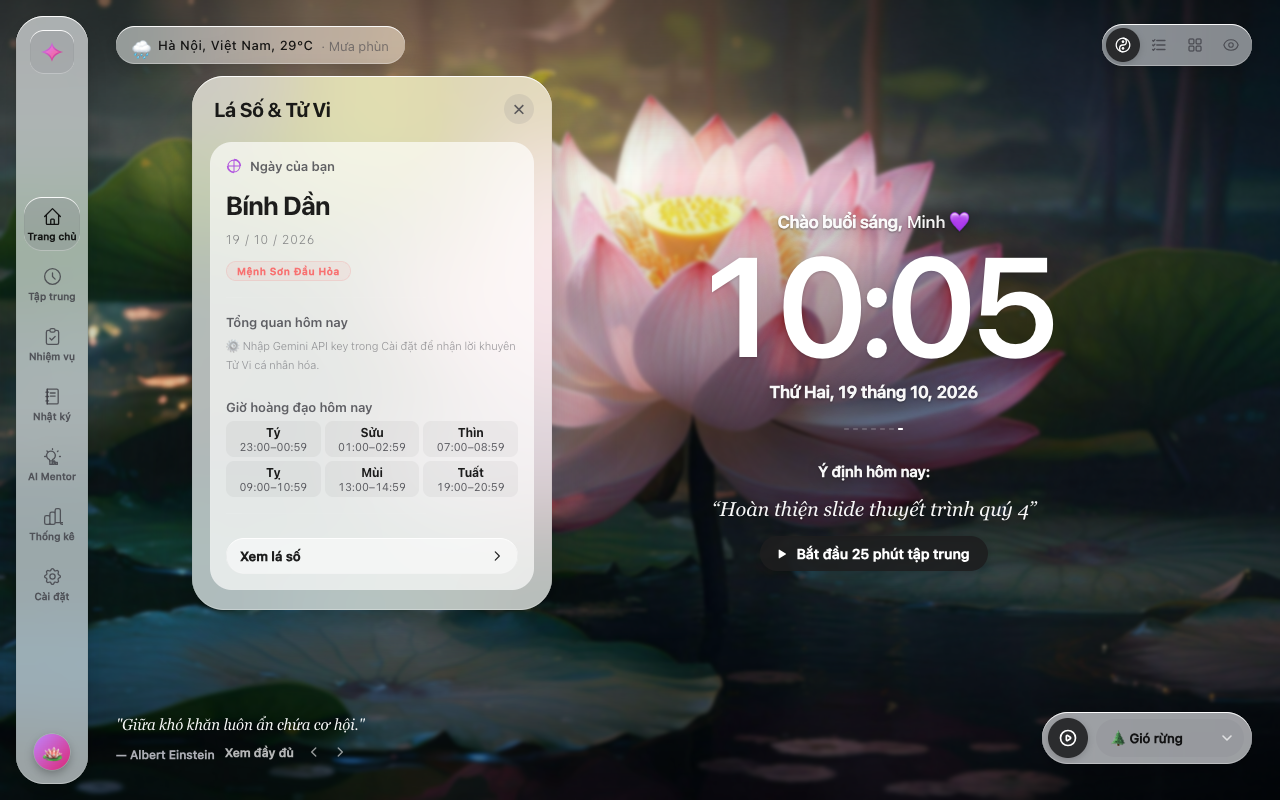
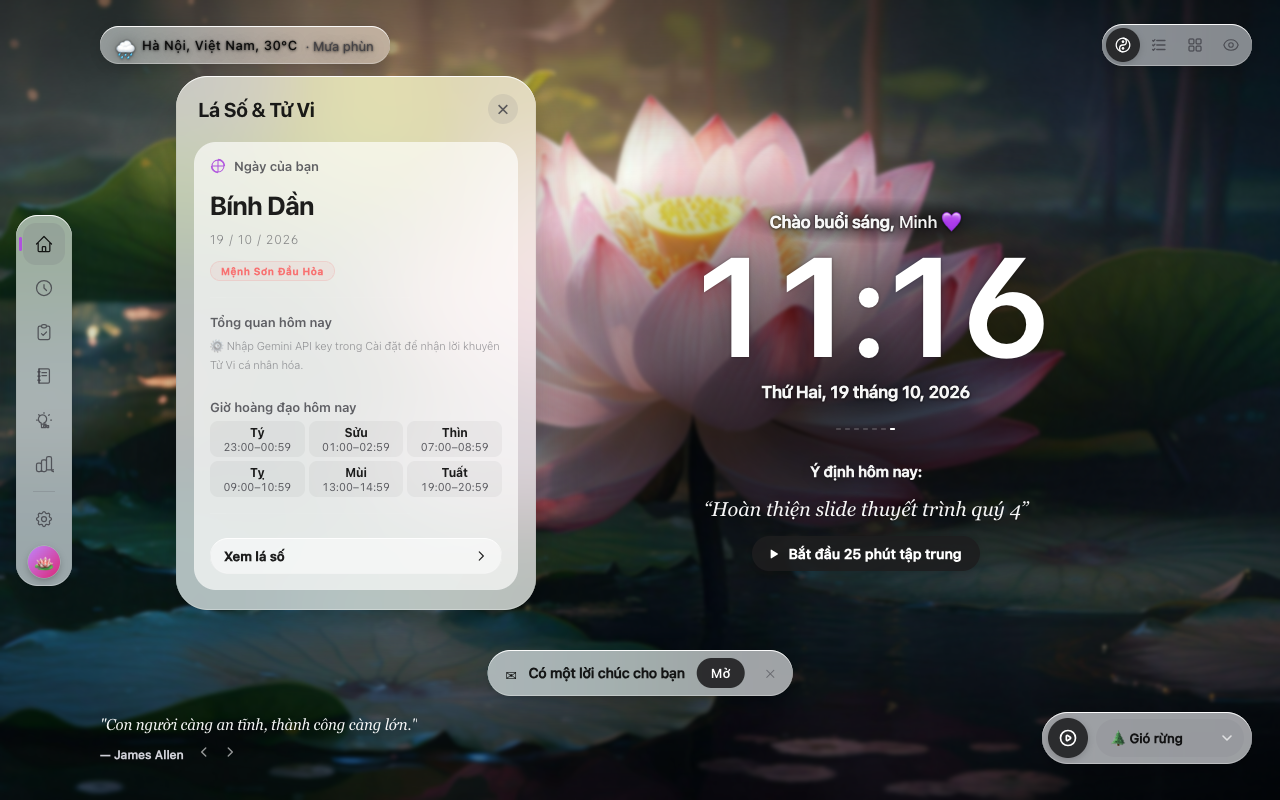
Sidebar: a small floating dock instead of a full-height rail
- The rail was as tall as the window with a logo at the top and the
  avatar at the bottom, mostly empty glass. It is now a dock as tall as
  its icons, centred on the left edge, 56px wide.
- Icon-only buttons; the label becomes the accessible name and a tooltip
  that appears beside the dock after a short pause.
- The active page gets a short accent mark at the dock's inner edge.
- The lotus logo goes (the avatar already carries it); a hairline
  separates Settings and the avatar from the pages.
- Store screenshots retaken.

diff --git a/index.html b/index.html
@@ -15,74 +15,56 @@
   <div class="app-layout" data-view="home">
     <!-- Left Navigation Sidebar -->
     <aside class="sidebar-left">
-      <div class="sidebar-top">
-        <div class="logo-container">
-          <svg viewBox="0 0 100 100" class="logo-lotus" xmlns="http://www.w3.org/2000/svg">
-            <path d="M50 15 C45 35, 30 45, 10 50 C30 55, 45 65, 50 85 C55 65, 70 55, 90 50 C70 45, 55 35, 50 15 Z" fill="url(#lotus-grad)"/>
-            <path d="M50 25 C47 40, 37 47, 20 50 C37 53, 47 60, 50 75 C53 60, 63 53, 80 50 C63 47, 53 40, 50 25 Z" fill="url(#lotus-grad-inner)" opacity="0.8"/>
-            <defs>
-              <linearGradient id="lotus-grad" x1="0%" y1="0%" x2="100%" y2="100%">
-                <stop offset="0%" stop-color="#c084fc" />
-                <stop offset="100%" stop-color="#db2777" />
-              </linearGradient>
-              <linearGradient id="lotus-grad-inner" x1="0%" y1="0%" x2="100%" y2="100%">
-                <stop offset="0%" stop-color="#e879f9" />
-                <stop offset="100%" stop-color="#fb7185" />
-              </linearGradient>
-            </defs>
-          </svg>
-        </div>
-      </div>
-      
       <nav class="sidebar-nav">
-        <button class="nav-item active" data-tab="home" title="Trang chủ">
+        <button class="nav-item active" data-tab="home" aria-label="Trang chủ">
           <svg xmlns="http://www.w3.org/2000/svg" fill="none" viewBox="0 0 24 24" stroke="currentColor">
             <path stroke-linecap="round" stroke-linejoin="round" stroke-width="1.5" d="M3 12l2-2m0 0l7-7 7 7M5 10v10a1 1 0 001 1h3m10-11l2 2m-2-2v10a1 1 0 01-1 1h-3m-6 0a1 1 0 001-1v-4a1 1 0 011-1h2a1 1 0 011 1v4a1 1 0 001 1m-6 0h6"/>
           </svg>
-          <span>Trang chủ</span>
+          <span class="nav-tip">Trang chủ</span>
         </button>
-        <button class="nav-item" data-tab="focus" title="Tập trung">
+        <button class="nav-item" data-tab="focus" aria-label="Tập trung">
           <svg xmlns="http://www.w3.org/2000/svg" fill="none" viewBox="0 0 24 24" stroke="currentColor">
             <path stroke-linecap="round" stroke-linejoin="round" stroke-width="1.5" d="M12 8v4l3 3m6-3a9 9 0 11-18 0 9 9 0 0118 0z"/>
           </svg>
-          <span>Tập trung</span>
+          <span class="nav-tip">Tập trung</span>
         </button>
-        <button class="nav-item" data-tab="tasks" title="Nhiệm vụ">
+        <button class="nav-item" data-tab="tasks" aria-label="Nhiệm vụ">
           <svg xmlns="http://www.w3.org/2000/svg" fill="none" viewBox="0 0 24 24" stroke="currentColor">
             <path stroke-linecap="round" stroke-linejoin="round" stroke-width="1.5" d="M9 5H7a2 2 0 00-2 2v12a2 2 0 002 2h10a2 2 0 002-2V7a2 2 0 00-2-2h-2M9 5a2 2 0 002 2h2a2 2 0 002-2M9 5a2 2 0 012-2h2a2 2 0 012 2m-6 9l2 2 4-4"/>
           </svg>
-          <span>Nhiệm vụ</span>
+          <span class="nav-tip">Nhiệm vụ</span>
         </button>
-        <button class="nav-item" data-tab="journal" title="Nhật ký">
+        <button class="nav-item" data-tab="journal" aria-label="Nhật ký">
           <svg xmlns="http://www.w3.org/2000/svg" fill="none" viewBox="0 0 24 24" stroke="currentColor" stroke-width="1.5" stroke-linecap="round" stroke-linejoin="round">
             <path d="M6 3.5h11a1.5 1.5 0 0 1 1.5 1.5v14a1.5 1.5 0 0 1-1.5 1.5H6z"/><path d="M6 3.5v17M9.5 8h5.5M9.5 11.5h5.5"/><path d="M4.5 7h3M4.5 12h3M4.5 17h3"/>
           </svg>
-          <span>Nhật ký</span>
+          <span class="nav-tip">Nhật ký</span>
         </button>
-        <button class="nav-item" data-tab="ai" title="AI Mentor">
+        <button class="nav-item" data-tab="ai" aria-label="AI Mentor">
           <svg xmlns="http://www.w3.org/2000/svg" fill="none" viewBox="0 0 24 24" stroke="currentColor">
             <path stroke-linecap="round" stroke-linejoin="round" stroke-width="1.5" d="M9.663 17h4.673M12 3v1m6.364 1.636l-.707.707M21 12h-1M4 12H3m3.343-5.657l-.707-.707m2.828 9.9a5 5 0 113.536 0V21h2v-2.243a4.973 4.973 0 013.536 0V21h-2v-2a1 1 0 00-1-1h-2a1 1 0 00-1 1v2H9v-2.243z"/>
           </svg>
-          <span>AI Mentor</span>
+          <span class="nav-tip">AI Mentor</span>
         </button>
-        <button class="nav-item" data-tab="stats" title="Thống kê">
+        <button class="nav-item" data-tab="stats" aria-label="Thống kê">
           <svg xmlns="http://www.w3.org/2000/svg" fill="none" viewBox="0 0 24 24" stroke="currentColor">
             <path stroke-linecap="round" stroke-linejoin="round" stroke-width="1.5" d="M9 19v-6a2 2 0 00-2-2H5a2 2 0 00-2 2v6a2 2 0 002 2h2a2 2 0 002-2zm0 0V9a2 2 0 012-2h2a2 2 0 012 2v10m-6 0a2 2 0 002 2h2a2 2 0 002-2m0 0V5a2 2 0 012-2h2a2 2 0 012 2v14a2 2 0 002 2h2a2 2 0 002-2z"/>
           </svg>
-          <span>Thống kê</span>
+          <span class="nav-tip">Thống kê</span>
         </button>
-        <button class="nav-item" id="settingsBtn" title="Cài đặt">
+        <span class="nav-divider" aria-hidden="true"></span>
+        <button class="nav-item" id="settingsBtn" aria-label="Cài đặt">
           <svg xmlns="http://www.w3.org/2000/svg" fill="none" viewBox="0 0 24 24" stroke="currentColor">
             <path stroke-linecap="round" stroke-linejoin="round" stroke-width="1.5" d="M10.325 4.317c.426-1.756 2.924-1.756 3.35 0a1.724 1.724 0 002.573 1.066c1.543-.94 3.31.826 2.37 2.37a1.724 1.724 0 001.065 2.572c1.756.426 1.756 2.924 0 3.35a1.724 1.724 0 00-1.066 2.573c.94 1.543-.826 3.31-2.37 2.37a1.724 1.724 0 00-2.572 1.065c-.426 1.756-2.924 1.756-3.35 0a1.724 1.724 0 00-2.573-1.066c-1.543.94-3.31-.826-2.37-2.37a1.724 1.724 0 00-1.065-2.572c-1.756-.426-1.756-2.924 0-3.35a1.724 1.724 0 001.066-2.573c-.94-1.543.826-3.31 2.37-2.37.996.608 2.296.07 2.572-1.065z"/>
             <path stroke-linecap="round" stroke-linejoin="round" stroke-width="1.5" d="M15 12a3 3 0 11-6 0 3 3 0 016 0z"/>
           </svg>
-          <span>Cài đặt</span>
+          <span class="nav-tip">Cài đặt</span>
         </button>
       </nav>
 
       <div class="sidebar-bottom">
         <div class="profile-container">
-          <img src="icons/icon128.png" alt="Avatar" class="user-avatar" id="userAvatar" title="Cài đặt">
+          <img src="icons/icon128.png" alt="Ảnh đại diện · mở Cài đặt" class="user-avatar" id="userAvatar">
         </div>
       </div>
     </aside>

diff --git a/liquid-glass.css b/liquid-glass.css
@@ -129,14 +129,19 @@ button { -webkit-tap-highlight-color: transparent; }
   outline-offset: 2px;
 }
 
-/* ---------- Sidebar → floating glass rail ---------- */
+/* ---------- Sidebar → a small floating dock ----------
+   As tall as its icons and centred, not a full-height rail. Labels become tooltips;
+   the active page gets a short accent mark on the left edge. */
 .sidebar-left {
-  width: 72px;
-  height: calc(100% - 32px);
-  margin: 16px 0 16px 16px;
-  padding: 14px 0;
+  align-self: center;
+  justify-content: flex-start;
+  gap: 4px;
+  width: 56px;
+  height: auto;
+  margin: 0 0 0 16px;
+  padding: 8px 0;
   border: none;
-  border-radius: 28px;
+  border-radius: 22px;
   background: var(--sheet-1);
   backdrop-filter: var(--lg-blur-heavy);
   -webkit-backdrop-filter: var(--lg-blur-heavy);
@@ -144,54 +149,78 @@ button { -webkit-tap-highlight-color: transparent; }
   transition: transform 0.5s var(--ease-spring), opacity 0.4s ease, margin 0.5s var(--ease-spring), width 0.5s var(--ease-spring);
 }
 
-.logo-container {
-  width: 44px;
-  height: 44px;
-  border: none;
-  border-radius: 14px;
-  background: var(--wash-2);
-  box-shadow: var(--lg-edge);
-}
-.logo-lotus { width: 28px; height: 28px; filter: none; }
-
-.sidebar-nav { gap: 6px; }
+.sidebar-nav { gap: 2px; }
 
 .nav-item {
-  width: 56px;
-  height: 54px;
+  width: 42px;
+  height: 42px;
   border: none;
-  border-radius: 18px;
-  gap: 3px;
+  border-radius: 13px;
   color: var(--text-dim);
-  transition: background 0.3s var(--ease-spring), color 0.2s ease, transform 0.35s var(--ease-bounce);
+  transition: background 0.25s var(--ease-spring), color 0.2s ease, transform 0.35s var(--ease-bounce);
 }
-.nav-item svg { width: 21px; height: 21px; transition: none; }
-.nav-item span {
-  position: static;
-  opacity: 1;
-  margin: 0;
-  font-size: 10px;
-  font-weight: 510;
-  letter-spacing: 0;
-  text-transform: none;
-  white-space: nowrap;
-}
+.nav-item svg { width: 20px; height: 20px; transition: none; }
 .nav-item:hover { background: var(--wash-1); color: var(--text); }
 .nav-item:hover svg { transform: none; }
-.nav-item:active { transform: scale(0.94); }
+.nav-item:active { transform: scale(0.92); }
 .nav-item.active {
   background: var(--wash-3);
   border: none;
   color: var(--text);
-  box-shadow: var(--lg-edge);
+  box-shadow: none;
 }
 .nav-item.active svg { color: var(--text); filter: none; }
+.nav-item.active::before {
+  content: "";
+  position: absolute;
+  left: -4px;
+  top: 50%;
+  width: 3px;
+  height: 14px;
+  border-radius: 2px;
+  background: var(--accent);
+  transform: translateY(-50%);
+}
 
+/* Tooltip: appears beside the dock after a short pause, instantly when moving along it */
+.nav-item .nav-tip {
+  position: absolute;
+  left: calc(100% + 14px);
+  top: 50%;
+  bottom: auto;
+  margin: 0;
+  padding: 5px 10px;
+  border-radius: 8px;
+  background: var(--menu-bg);
+  color: var(--text);
+  box-shadow: 0 6px 18px rgba(0, 0, 0, 0.22), 0 0 0 0.5px rgba(0, 0, 0, 0.08);
+  font-size: 12px;
+  font-weight: 560;
+  letter-spacing: 0;
+  text-transform: none;
+  white-space: nowrap;
+  opacity: 0;
+  transform: translate(-4px, -50%);
+  pointer-events: none;
+  transition: opacity 0.15s ease, transform 0.2s var(--ease-spring);
+  z-index: 20;
+}
+.nav-item:hover .nav-tip, .nav-item:focus-visible .nav-tip {
+  opacity: 1;
+  transform: translate(0, -50%);
+  transition-delay: 0.35s;
+}
+.sidebar-nav:hover .nav-item:hover .nav-tip { transition-delay: 0.35s; }
+@media (prefers-reduced-motion: reduce) { .nav-item .nav-tip { transition: opacity 0.1s; transform: translate(0, -50%); } }
+
+.nav-divider { width: 22px; height: 1px; margin: 4px auto; background: var(--separator); }
+
+.sidebar-bottom { margin-top: 2px; }
 .user-avatar {
-  width: 36px;
-  height: 36px;
+  width: 32px;
+  height: 32px;
   border: none;
-  box-shadow: 0 0 0 0.5px rgba(255, 255, 255, 0.3), 0 4px 10px rgba(0, 0, 0, 0.3);
+  box-shadow: 0 0 0 0.5px rgba(255, 255, 255, 0.3), 0 3px 8px rgba(0, 0, 0, 0.28);
 }
 
 .app-layout.zen-active[data-view="home"] .sidebar-left {
